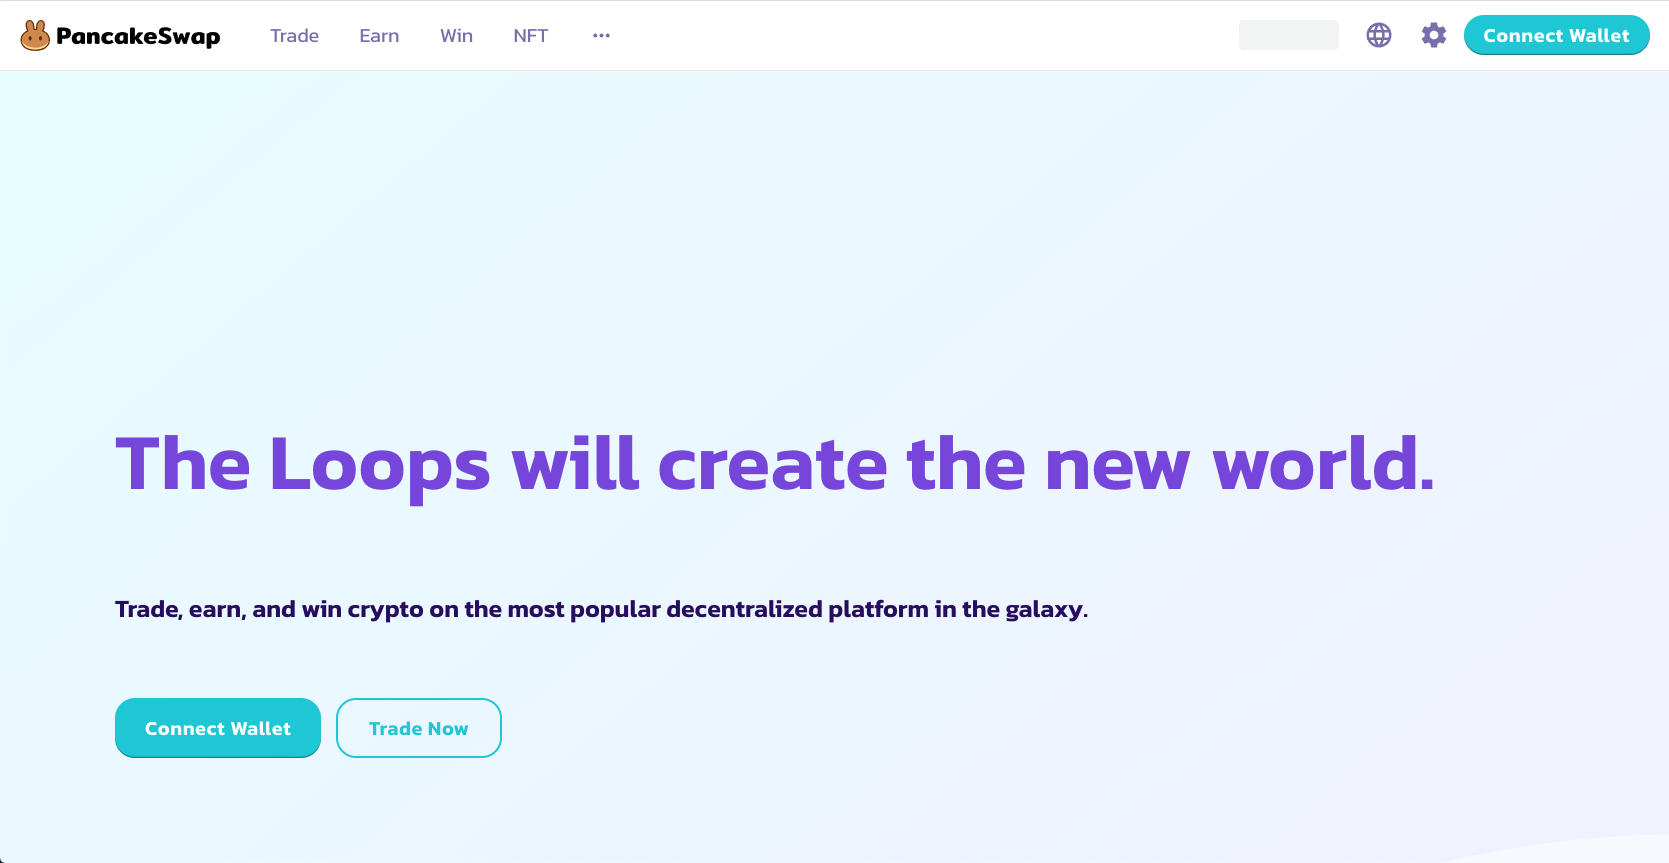
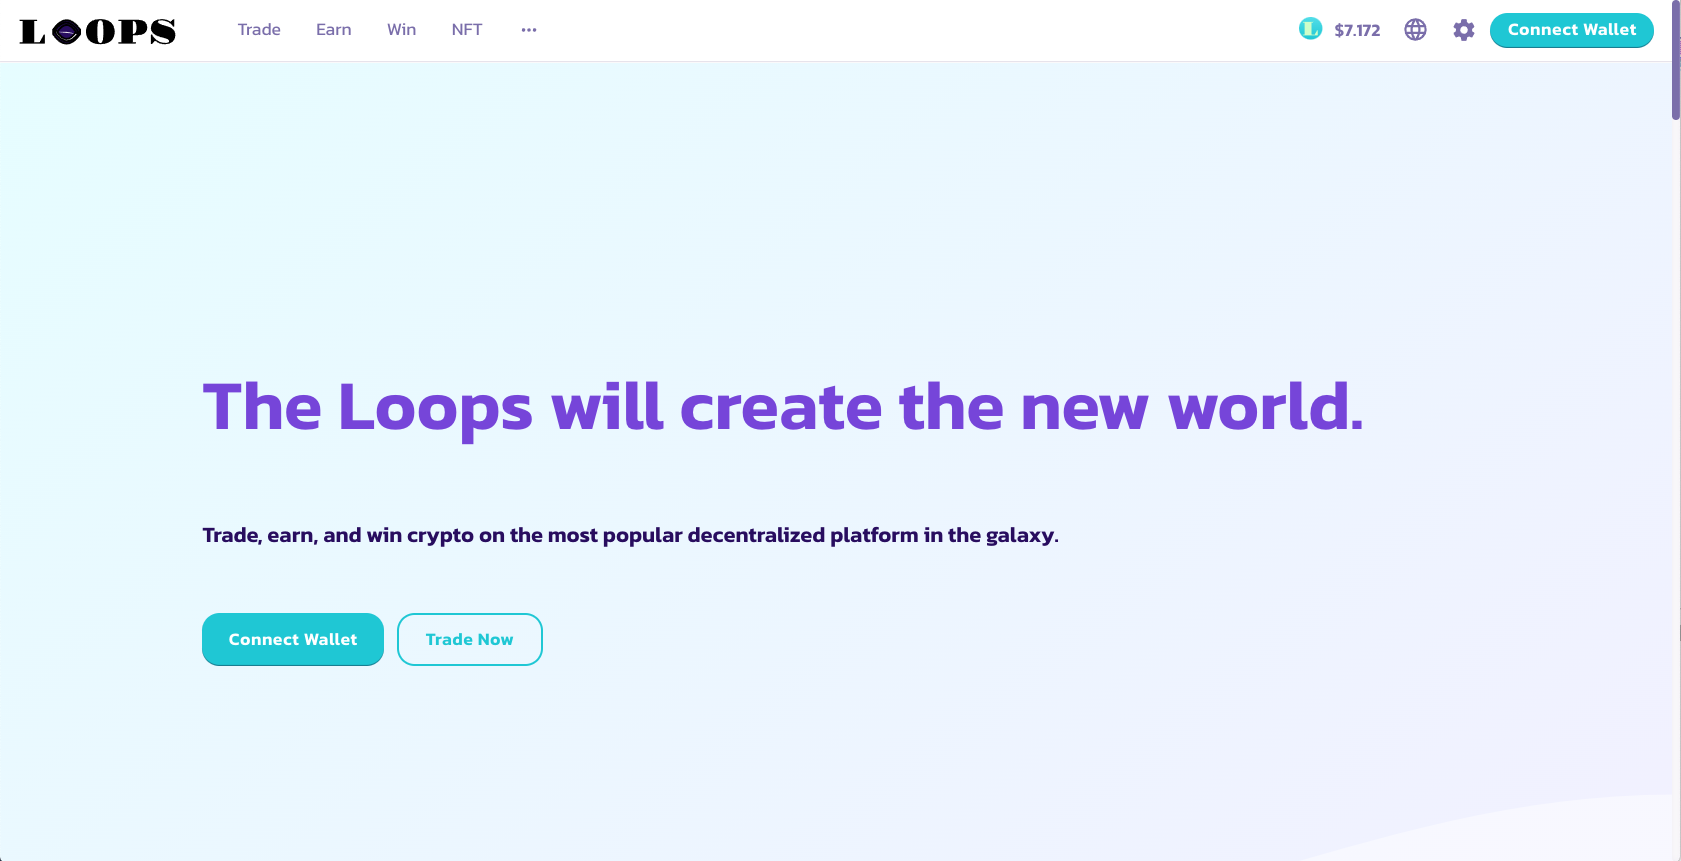
Home Work 6

diff --git a/W6/Group_coding/pancake-toolkit/packages/pancake-uikit/src/components/Svg/Icons/LogoWithText.tsx b/W6/Group_coding/pancake-toolkit/packages/pancake-uikit/src/components/Svg/Icons/LogoWithText.tsx
@@ -9,30 +9,11 @@ interface LogoProps extends SvgProps {
 const Logo: React.FC<LogoProps> = ({ isDark, ...props }) => {
   const textColor = isDark ? "#FFFFFF" : "#000000";
   return (
-    <Svg viewBox="0 0 1281 199" {...props}>
+    <Svg viewBox="0 0 460 99" {...props}>
       <path
-        d="M247.013 153.096c-2.979 0-5.085-.617-6.318-1.849-1.13-1.233-1.695-3.185-1.695-5.856v-89.22c0-2.672.616-4.624 1.849-5.856 1.233-1.336 3.287-2.004 6.164-2.004h37.753c14.382 0 24.963 3.031 31.744 9.092 6.78 6.061 10.17 15.101 10.17 27.12 0 11.917-3.39 20.906-10.17 26.967-6.678 5.959-17.259 8.938-31.744 8.938h-14.639v24.963c0 2.671-.616 4.623-1.849 5.856-1.233 1.232-3.339 1.849-6.318 1.849h-14.947zm35.288-55.012c4.212 0 7.448-1.13 9.708-3.39 2.362-2.26 3.544-5.65 3.544-10.17 0-4.623-1.182-8.065-3.544-10.325-2.26-2.26-5.496-3.39-9.708-3.39h-12.174v27.275h12.174zM363.071 155.407c-9.656 0-17.412-3.082-23.268-9.245-5.753-6.267-8.629-15.05-8.629-26.351 0-8.629 1.952-16.18 5.855-22.652 4.007-6.472 9.606-11.454 16.797-14.947 7.294-3.595 15.666-5.393 25.117-5.393 7.808 0 14.691.873 20.649 2.62 6.061 1.643 11.608 4.057 16.642 7.242v61.638c0 1.952-.359 3.236-1.079 3.852-.719.617-2.157.925-4.314.925h-15.718c-1.13 0-2.003-.154-2.619-.463-.617-.41-1.13-1.027-1.541-1.849l-2.004-4.622c-2.979 3.184-6.574 5.496-10.786 6.934-4.109 1.541-9.143 2.311-15.102 2.311zm11.558-20.957c4.006 0 7.139-.976 9.399-2.927 2.26-1.952 3.39-4.726 3.39-8.322V99.163c-1.951-.925-4.417-1.387-7.396-1.387-5.445 0-9.811 1.9-13.098 5.701-3.185 3.801-4.777 9.143-4.777 16.026 0 9.965 4.16 14.947 12.482 14.947zM437.679 153.096c-2.98 0-5.086-.617-6.318-1.849-1.233-1.233-1.849-3.185-1.849-5.856V83.907c0-1.849.308-3.082.924-3.698.719-.72 2.157-1.079 4.315-1.079h15.872c1.232 0 2.157.206 2.773.617.719.308 1.13.924 1.233 1.849l.77 4.623c2.877-2.877 6.627-5.137 11.249-6.78 4.726-1.747 9.965-2.62 15.718-2.62 8.321 0 15.05 2.363 20.186 7.088 5.137 4.623 7.705 11.506 7.705 20.649v40.835c0 2.671-.616 4.623-1.849 5.856-1.13 1.232-3.185 1.849-6.164 1.849h-14.947c-2.979 0-5.136-.617-6.472-1.849-1.233-1.233-1.849-3.185-1.849-5.856v-38.832c0-3.082-.668-5.29-2.003-6.626-1.336-1.335-3.442-2.003-6.318-2.003-3.082 0-5.548.822-7.397 2.465-1.746 1.644-2.619 3.904-2.619 6.781v38.215c0 2.671-.617 4.623-1.849 5.856-1.13 1.232-3.185 1.849-6.164 1.849h-14.947zM564.725 155.407c-14.382 0-25.477-3.339-33.285-10.016-7.807-6.677-11.711-16.385-11.711-29.124 0-7.807 1.798-14.69 5.393-20.648 3.596-5.959 8.784-10.582 15.564-13.869 6.883-3.287 14.999-4.931 24.347-4.931 7.088 0 13.047.668 17.875 2.003 4.931 1.336 9.297 3.39 13.098 6.164 1.13.72 1.695 1.644 1.695 2.774 0 .822-.411 1.9-1.233 3.236l-6.318 10.94c-.719 1.439-1.592 2.158-2.619 2.158-.617 0-1.593-.411-2.928-1.233-2.774-1.746-5.393-3.03-7.859-3.852-2.363-.822-5.342-1.233-8.937-1.233-5.137 0-9.297 1.644-12.482 4.931-3.082 3.287-4.623 7.807-4.623 13.56 0 5.856 1.592 10.376 4.777 13.56 3.185 3.082 7.551 4.623 13.098 4.623 3.287 0 6.267-.462 8.938-1.387 2.671-.924 5.393-2.208 8.167-3.852 1.438-.822 2.465-1.233 3.082-1.233.924 0 1.746.719 2.465 2.158l6.934 11.865c.514 1.027.771 1.849.771 2.465 0 .925-.617 1.798-1.849 2.62-4.315 2.774-9.041 4.828-14.177 6.164-5.034 1.438-11.095 2.157-18.183 2.157zM638.004 155.407c-9.657 0-17.413-3.082-23.268-9.245-5.753-6.267-8.63-15.05-8.63-26.351 0-8.629 1.952-16.18 5.856-22.652 4.006-6.472 9.605-11.454 16.796-14.947 7.294-3.595 15.667-5.393 25.118-5.393 7.807 0 14.69.873 20.648 2.62 6.061 1.643 11.609 4.057 16.643 7.242v61.638c0 1.952-.36 3.236-1.079 3.852-.719.617-2.157.925-4.315.925h-15.717c-1.13 0-2.004-.154-2.62-.463-.616-.41-1.13-1.027-1.541-1.849l-2.003-4.622c-2.979 3.184-6.575 5.496-10.787 6.934-4.109 1.541-9.143 2.311-15.101 2.311zm11.557-20.957c4.007 0 7.14-.976 9.4-2.927 2.26-1.952 3.39-4.726 3.39-8.322V99.163c-1.952-.925-4.417-1.387-7.397-1.387-5.444 0-9.81 1.9-13.098 5.701-3.184 3.801-4.777 9.143-4.777 16.026 0 9.965 4.161 14.947 12.482 14.947zM787.963 147.24c.719.822 1.079 1.747 1.079 2.774 0 .924-.308 1.695-.925 2.311-.616.514-1.438.771-2.465.771h-23.885c-1.438 0-2.517-.103-3.236-.308-.616-.309-1.284-.874-2.003-1.695l-20.957-28.508v22.806c0 2.671-.616 4.623-1.849 5.856-1.233 1.232-3.339 1.849-6.318 1.849h-14.947c-2.979 0-5.085-.617-6.318-1.849-1.13-1.233-1.695-3.185-1.695-5.856v-89.22c0-2.672.616-4.624 1.849-5.856 1.233-1.336 3.288-2.004 6.164-2.004h14.947c2.979 0 5.085.668 6.318 2.004 1.233 1.232 1.849 3.184 1.849 5.855v51.622l20.341-26.504c.616-.822 1.284-1.387 2.003-1.695.719-.309 1.798-.463 3.236-.463h23.885c1.027 0 1.797.309 2.311.925.616.514.925 1.233.925 2.157 0 1.028-.36 1.952-1.079 2.774l-26.35 30.203 27.12 32.051zM837.998 155.407c-8.629 0-16.334-1.438-23.114-4.314-6.677-2.877-11.968-7.192-15.872-12.944-3.903-5.753-5.855-12.79-5.855-21.111 0-13.047 3.698-23.012 11.095-29.895 7.396-6.883 18.029-10.324 31.897-10.324 13.561 0 23.834 3.39 30.819 10.17 7.089 6.678 10.633 15.975 10.633 27.891 0 5.137-2.26 7.705-6.78 7.705h-48.386c0 4.417 1.643 7.808 4.931 10.17 3.39 2.363 8.475 3.544 15.255 3.544 4.212 0 7.705-.359 10.479-1.078 2.876-.822 5.753-2.003 8.629-3.544 1.233-.514 2.055-.771 2.465-.771.925 0 1.695.617 2.312 1.849l5.239 9.862c.514 1.028.771 1.798.771 2.312 0 .924-.617 1.798-1.85 2.619-4.211 2.774-8.988 4.777-14.33 6.01-5.342 1.233-11.455 1.849-18.338 1.849zm11.866-48.077c0-3.904-1.13-6.935-3.39-9.092-2.26-2.157-5.651-3.236-10.171-3.236s-7.961 1.13-10.324 3.39c-2.363 2.158-3.544 5.137-3.544 8.938h27.429zM930.417 155.407c-8.63 0-16.797-.873-24.501-2.619-7.705-1.85-13.92-4.418-18.646-7.705-1.746-1.13-2.619-2.312-2.619-3.544 0-.822.308-1.695.924-2.62l7.551-12.019c.822-1.233 1.643-1.849 2.465-1.849.514 0 1.387.359 2.62 1.078 3.801 2.158 8.115 3.904 12.944 5.239 4.828 1.336 9.605 2.004 14.331 2.004 4.828 0 8.372-.719 10.632-2.158 2.363-1.438 3.544-3.749 3.544-6.934 0-3.082-1.284-5.496-3.852-7.242-2.466-1.747-7.14-3.955-14.023-6.626-10.375-3.904-18.491-8.27-24.347-13.099-5.753-4.93-8.629-11.608-8.629-20.032 0-10.17 3.647-17.926 10.941-23.268C907.046 48.67 916.753 46 928.876 46c8.423 0 15.615.77 21.573 2.311 6.061 1.439 11.197 3.699 15.409 6.78 1.747 1.336 2.62 2.569 2.62 3.699 0 .719-.308 1.54-.925 2.465l-7.55 12.02c-.925 1.232-1.747 1.849-2.466 1.849-.513 0-1.387-.36-2.619-1.079-5.959-3.904-13.047-5.855-21.265-5.855-4.418 0-7.808.719-10.171 2.157-2.362 1.438-3.544 3.801-3.544 7.088 0 2.26.617 4.11 1.849 5.548 1.233 1.438 2.877 2.722 4.931 3.852 2.158 1.027 5.445 2.363 9.862 4.007l2.928 1.078c7.602 2.98 13.561 5.856 17.875 8.63 4.418 2.67 7.756 6.009 10.016 10.016 2.26 3.903 3.39 8.834 3.39 14.793 0 9.143-3.441 16.437-10.324 21.881-6.78 5.445-16.796 8.167-30.048 8.167zM1003.53 153.096c-1.54 0-2.72-.257-3.544-.771-.822-.513-1.439-1.541-1.85-3.082l-19.878-66.569c-.205-.616-.308-1.078-.308-1.386 0-1.438 1.027-2.158 3.082-2.158h20.338c1.34 0 2.31.257 2.93.77.62.412 1.03 1.13 1.23 2.158l8.32 34.98 10.48-28.2c.52-1.232 1.03-2.054 1.54-2.465.62-.514 1.65-.77 3.09-.77h9.7c1.44 0 2.42.256 2.93.77.62.41 1.18 1.233 1.7 2.465l10.32 28.2 8.48-34.98c.3-1.027.71-1.746 1.23-2.157.51-.514 1.44-.77 2.77-.77h20.5c2.05 0 3.08.719 3.08 2.157 0 .308-.1.77-.31 1.386l-20.03 66.569c-.41 1.541-1.03 2.569-1.85 3.082-.72.514-1.85.771-3.39.771h-15.1c-1.44 0-2.52-.257-3.24-.771-.72-.616-1.33-1.643-1.85-3.082l-10.17-27.891-10.17 27.891c-.41 1.439-1.03 2.466-1.85 3.082-.72.514-1.79.771-3.23.771h-14.95zM1128.73 155.407c-9.66 0-17.41-3.082-23.27-9.245-5.75-6.267-8.63-15.05-8.63-26.351 0-8.629 1.95-16.18 5.86-22.652 4-6.472 9.6-11.454 16.79-14.947 7.3-3.595 15.67-5.393 25.12-5.393 7.81 0 14.69.873 20.65 2.62 6.06 1.643 11.61 4.057 16.64 7.242v61.638c0 1.952-.36 3.236-1.08 3.852-.72.617-2.15.925-4.31.925h-15.72c-1.13 0-2-.154-2.62-.463-.62-.41-1.13-1.027-1.54-1.849l-2-4.622c-2.98 3.184-6.58 5.496-10.79 6.934-4.11 1.541-9.14 2.311-15.1 2.311zm11.56-20.957c4 0 7.14-.976 9.4-2.927 2.26-1.952 3.39-4.726 3.39-8.322V99.163c-1.96-.925-4.42-1.387-7.4-1.387-5.45 0-9.81 1.9-13.1 5.701-3.18 3.801-4.78 9.143-4.78 16.026 0 9.965 4.17 14.947 12.49 14.947zM1203.18 184.223c-2.98 0-5.08-.616-6.32-1.849-1.13-1.233-1.69-3.185-1.69-5.856V88.222c4.62-3.287 10.43-6.01 17.41-8.167 6.99-2.157 14.28-3.236 21.88-3.236 31.03 0 46.54 13.15 46.54 39.448 0 11.917-3.29 21.419-9.86 28.508-6.58 7.088-15.87 10.632-27.89 10.632-3.39 0-6.68-.411-9.87-1.233-3.08-.821-5.65-1.951-7.7-3.39v25.734c0 2.671-.62 4.623-1.85 5.856-1.23 1.233-3.34 1.849-6.32 1.849h-14.33zm33.44-49.619c4.42 0 7.71-1.643 9.86-4.931 2.26-3.39 3.39-7.91 3.39-13.56 0-6.677-1.33-11.352-4-14.023-2.57-2.773-6.58-4.16-12.02-4.16-3.5 0-6.27.462-8.32 1.387v24.501c0 3.493.97 6.164 2.92 8.013 1.96 1.849 4.68 2.773 8.17 2.773z"
-        fill={textColor}
+        d="M4.35059 81.5283H12.041V26.1572H4.35059V22.7295H50.0098V26.1572H42.3633V81.5283H56.3379L67.3682 61.5332H70.3564V85H4.35059V81.5283ZM177.539 53.8428C177.539 50.9424 177.832 48.1152 178.418 45.3613C179.033 42.6074 179.971 40.0146 181.23 37.583C182.52 35.1514 184.16 32.9248 186.152 30.9033C188.145 28.8818 190.532 27.1387 193.315 25.6738C196.099 24.209 199.307 23.0811 202.939 22.29C206.572 21.4697 210.659 21.0596 215.2 21.0596C219.741 21.0596 223.828 21.4697 227.461 22.29C231.094 23.0811 234.302 24.209 237.085 25.6738C239.897 27.1387 242.3 28.8818 244.292 30.9033C246.284 32.9248 247.91 35.1514 249.17 37.583C250.43 40.0146 251.353 42.6074 251.938 45.3613C252.554 48.1152 252.861 50.9424 252.861 53.8428C252.861 56.7432 252.554 59.585 251.938 62.3682C251.353 65.1221 250.43 67.7148 249.17 70.1465C247.91 72.5781 246.284 74.8047 244.292 76.8262C242.3 78.8477 239.897 80.5908 237.085 82.0557C234.302 83.5205 231.094 84.6484 227.461 85.4395C223.828 86.2598 219.741 86.6699 215.2 86.6699C210.659 86.6699 206.572 86.2598 202.939 85.4395C199.307 84.6484 196.099 83.5205 193.315 82.0557C190.532 80.5908 188.145 78.8477 186.152 76.8262C184.16 74.8047 182.52 72.5781 181.23 70.1465C179.971 67.7148 179.033 65.1221 178.418 62.3682C177.832 59.6143 177.539 56.7725 177.539 53.8428ZM215.2 83.6377C216.724 83.6377 217.983 83.1836 218.979 82.2754C220.005 81.3672 220.825 79.7852 221.44 77.5293C222.056 75.2441 222.48 72.1973 222.715 68.3887C222.979 64.5508 223.11 59.7021 223.11 53.8428C223.11 48.0127 222.979 43.1934 222.715 39.3848C222.48 35.5469 222.056 32.5 221.44 30.2441C220.825 27.959 220.005 26.3623 218.979 25.4541C217.983 24.5459 216.724 24.0918 215.2 24.0918C213.677 24.0918 212.402 24.5459 211.377 25.4541C210.381 26.3623 209.575 27.959 208.96 30.2441C208.374 32.5 207.949 35.5469 207.686 39.3848C207.451 43.1934 207.334 48.0127 207.334 53.8428C207.334 59.7021 207.451 64.5508 207.686 68.3887C207.949 72.1973 208.374 75.2441 208.96 77.5293C209.575 79.7852 210.381 81.3672 211.377 82.2754C212.402 83.1836 213.677 83.6377 215.2 83.6377ZM262.397 81.5283H270.088V26.1572H262.397V22.7295H313.066C317.373 22.7295 321.094 23.2568 324.229 24.3115C327.363 25.3369 329.956 26.7578 332.007 28.5742C334.058 30.3906 335.566 32.5586 336.533 35.0781C337.529 37.5684 338.027 40.2783 338.027 43.208C338.027 46.167 337.456 48.877 336.313 51.3379C335.2 53.7695 333.545 55.8643 331.348 57.6221C329.18 59.3506 326.484 60.6982 323.262 61.665C320.068 62.6025 316.392 63.0713 312.231 63.0713H300.41V81.5283H308.057V85H262.397V81.5283ZM300.41 59.9072C302.109 59.9072 303.56 59.5264 304.761 58.7646C305.962 57.9736 306.929 56.875 307.661 55.4688C308.423 54.0625 308.965 52.3779 309.287 50.415C309.639 48.4521 309.814 46.2695 309.814 43.8672C309.814 40.791 309.639 38.125 309.287 35.8691C308.936 33.584 308.379 31.709 307.617 30.2441C306.885 28.7793 305.918 27.6953 304.717 26.9922C303.545 26.2598 302.109 25.8936 300.41 25.8936V59.9072ZM347.256 61.0938H350.2C350.933 62.5293 351.841 64.082 352.925 65.752C354.009 67.3926 355.283 69.0332 356.748 70.6738C358.213 72.3145 359.883 73.8965 361.758 75.4199C363.633 76.9141 365.728 78.2324 368.042 79.375C370.356 80.5176 372.905 81.4404 375.688 82.1436C378.472 82.8174 381.519 83.1543 384.829 83.1543C385.796 83.1543 386.88 83.1104 388.081 83.0225C389.282 82.9053 390.41 82.6855 391.465 82.3633C392.52 82.0117 393.398 81.5283 394.102 80.9131C394.834 80.2686 395.2 79.4189 395.2 78.3643C395.2 77.251 394.731 76.2695 393.794 75.4199C392.886 74.541 391.494 73.7061 389.619 72.915C387.744 72.0947 385.371 71.2744 382.5 70.4541C379.658 69.6338 376.304 68.7109 372.437 67.6855C363.823 65.459 357.437 62.3535 353.276 58.3691C349.146 54.3555 347.08 49.4629 347.08 43.6914C347.08 40.0879 347.812 36.8799 349.277 34.0674C350.771 31.2549 352.793 28.8965 355.342 26.9922C357.92 25.0586 360.923 23.5938 364.351 22.5977C367.808 21.5723 371.484 21.0596 375.381 21.0596C377.373 21.0596 379.453 21.2354 381.621 21.5869C383.818 21.9385 385.957 22.4219 388.037 23.0371C390.117 23.6523 392.08 24.3994 393.926 25.2783C395.771 26.1279 397.383 27.0654 398.76 28.0908L405.396 21.6748H408.428V40.791H405.659C404.37 38.4766 402.715 36.3232 400.693 34.3311C398.672 32.3389 396.357 30.6104 393.75 29.1455C391.143 27.6807 388.257 26.5234 385.093 25.6738C381.929 24.8242 378.574 24.3994 375.029 24.3994C374.355 24.3994 373.491 24.4287 372.437 24.4873C371.382 24.5166 370.342 24.6631 369.316 24.9268C368.32 25.1904 367.456 25.6152 366.724 26.2012C365.991 26.7578 365.625 27.5488 365.625 28.5742C365.625 30.2441 367.134 31.8555 370.151 33.4082C373.198 34.9316 377.725 36.4844 383.73 38.0664C386.279 38.7402 388.74 39.458 391.113 40.2197C393.486 40.9521 395.698 41.8018 397.749 42.7686C399.829 43.7061 401.704 44.79 403.374 46.0205C405.073 47.2217 406.523 48.6426 407.725 50.2832C408.926 51.9238 409.849 53.7988 410.493 55.9082C411.167 58.0176 411.504 60.4492 411.504 63.2031C411.504 66.3965 410.918 69.4141 409.746 72.2559C408.574 75.0977 406.816 77.5879 404.473 79.7266C402.158 81.8652 399.272 83.5645 395.815 84.8242C392.358 86.0547 388.359 86.6699 383.818 86.6699C381.328 86.6699 378.984 86.4795 376.787 86.0986C374.59 85.7178 372.451 85.1465 370.371 84.3848C368.32 83.623 366.284 82.6709 364.263 81.5283C362.241 80.3564 360.161 78.9941 358.022 77.4414L350.552 85.835H347.256V61.0938Z" fill="black"
       />
-      <path
-        fillRule="evenodd"
-        clipRule="evenodd"
-        d="M97.556 198.607c-29.192-.022-52.708-7.027-69.138-19.609-16.627-12.733-25.448-30.803-25.448-51.25 0-19.701 8.801-33.907 18.76-43.51 7.805-7.525 16.417-12.344 22.414-15.117-1.356-4.162-3.048-9.61-4.562-15.238-2.025-7.53-4.012-16.366-4.012-22.84 0-7.663 1.67-15.36 6.175-21.34C46.505 3.385 53.671 0 62.291 0c6.737 0 12.457 2.499 16.934 6.81 4.28 4.12 7.13 9.593 9.097 15.298 3.456 10.024 4.802 22.618 5.179 35.187h8.257c.378-12.569 1.723-25.163 5.18-35.187 1.967-5.705 4.815-11.177 9.096-15.298C120.512 2.5 126.231 0 132.968 0c8.621 0 15.786 3.385 20.546 9.703 4.505 5.98 6.176 13.677 6.176 21.34 0 6.474-1.988 15.31-4.013 22.84-1.514 5.628-3.206 11.076-4.562 15.238 5.997 2.773 14.61 7.592 22.414 15.118 9.959 9.602 18.76 23.808 18.76 43.509 0 20.447-8.82 38.517-25.448 51.25-16.43 12.582-39.946 19.587-69.138 19.609h-.147z"
-        fill="#633001"
-      />
-      <path
-        d="M62.29 7.288c-12.625 0-18.437 9.516-18.437 22.675 0 10.46 6.753 31.408 9.523 39.563.624 1.835-.356 3.844-2.142 4.555-10.119 4.031-39.981 18.789-39.981 52.588 0 35.603 30.347 62.448 86.31 62.491l.066-.001.067.001c55.962-.043 86.309-26.888 86.309-62.491 0-33.799-29.862-48.557-39.981-52.588-1.786-.71-2.765-2.72-2.142-4.555 2.771-8.154 9.524-29.103 9.524-39.563 0-13.16-5.812-22.675-18.438-22.675-18.174 0-22.705 26.007-23.028 53.92-.021 1.863-1.513 3.375-3.357 3.375H88.676c-1.845 0-3.336-1.512-3.358-3.375-.323-27.913-4.853-53.92-23.028-53.92z"
-        fill="#D1884F"
-      />
-      <path
-        d="M97.696 177.755c-41.118 0-86.372-22.235-86.443-51.018v.134c0 35.632 30.395 62.491 86.443 62.491s86.443-26.859 86.443-62.491v-.134c-.071 28.783-45.325 51.018-86.443 51.018z"
-        fill="#FEDC90"
-      />
-      <path
-        className="eye"
-        d="M74.85 117.896c0 9.718-4.546 14.779-10.154 14.779s-10.154-5.061-10.154-14.779 4.546-14.779 10.154-14.779 10.154 5.061 10.154 14.779zM140.851 117.896c0 9.718-4.546 14.779-10.154 14.779s-10.154-5.061-10.154-14.779 4.546-14.779 10.154-14.779 10.154 5.061 10.154 14.779z"
-        fill="#633001"
-      />
+      <path d="M102.769 54.5C118.923 30.1 135.077 30.1 151.231 54.5M102.769 54.5C118.923 78.9 135.077 78.9 151.231 54.5M102.769 54.5L97.3846 48.4C117.128 24 135.974 24 153.923 48.4L162 60.6M151.231 54.5L156.615 60.6C136.872 85 118.026 85 100.077 60.6L92 48.4M92 48.4V60.6C115.333 93.1333 138.667 93.1333 162 60.6M92 48.4C115.333 15.8667 138.667 15.8667 162 48.4V60.6" stroke="black" stroke-width="5" stroke-linecap="round" stroke-linejoin="round"/>
     </Svg>
   );
 };

diff --git a/W6/Group_coding/pancake-toolkit/packages/pancake-uikit/src/components/Svg/Icons/LogoRound.tsx b/W6/Group_coding/pancake-toolkit/packages/pancake-uikit/src/components/Svg/Icons/LogoRound.tsx
@@ -4,28 +4,16 @@ import { SvgProps } from "../types";
 
 const Icon: React.FC<SvgProps> = (props) => {
   return (
-    <Svg viewBox="0 0 96 96" {...props}>
-      <circle cx={48} cy={48} r={48} fill="url(#paint0_linear_10493)" />
+    <Svg viewBox="0 0 120 120" {...props}>
+      <circle cx={52} cy={52} r={52} fill="url(#paint0_linear_10493)" />     
+      <g transform="translate(13,0)">
       <path
-        fillRule="evenodd"
-        clipRule="evenodd"
-        d="M47.858 79.875c-9.342-.007-16.866-2.249-22.124-6.275-5.321-4.075-8.144-9.857-8.144-16.4 0-6.304 2.817-10.85 6.004-13.923 2.497-2.408 5.253-3.95 7.172-4.838a99.818 99.818 0 01-1.46-4.876c-.648-2.41-1.284-5.237-1.284-7.309 0-2.452.535-4.915 1.977-6.829 1.523-2.021 3.816-3.104 6.574-3.104 2.156 0 3.986.8 5.42 2.179 1.369 1.318 2.28 3.07 2.91 4.895 1.106 3.208 1.537 7.238 1.657 11.26h2.643c.12-4.022.551-8.052 1.657-11.26.63-1.825 1.541-3.577 2.91-4.895 1.434-1.38 3.264-2.18 5.42-2.18 2.758 0 5.051 1.084 6.574 3.105 1.442 1.914 1.977 4.377 1.977 6.83 0 2.071-.636 4.898-1.284 7.308a99.707 99.707 0 01-1.46 4.876c1.919.888 4.675 2.43 7.172 4.838 3.187 3.073 6.004 7.619 6.004 13.923 0 6.543-2.823 12.325-8.144 16.4-5.257 4.026-12.782 6.268-22.124 6.275h-.047z"
-        fill="#633001"
+        d="M4.35059 81.5283H12.041V26.1572H4.35059V22.7295H50.0098V26.1572H42.3633V81.5283H56.3379L67.3682 61.5332H70.3564V85H4.35059V81.5283Z"
+        fill="#cefec9"
       />
-      <path
-        d="M36.573 18.653c-4.04 0-5.9 3.045-5.9 7.256 0 3.347 2.16 10.05 3.048 12.66.199.587-.114 1.23-.686 1.458-3.238 1.29-12.794 6.012-12.794 16.828 0 11.393 9.711 19.983 27.619 19.997h.043c17.908-.014 27.619-8.604 27.619-19.997 0-10.816-9.556-15.539-12.794-16.828a1.176 1.176 0 01-.686-1.458c.887-2.61 3.048-9.313 3.048-12.66 0-4.211-1.86-7.256-5.9-7.256-5.816 0-7.266 8.322-7.37 17.254a1.084 1.084 0 01-1.074 1.08h-5.73c-.59 0-1.067-.484-1.074-1.08-.103-8.932-1.553-17.254-7.369-17.254z"
-        fill="#D1884F"
-      />
-      <path
-        d="M47.903 73.202c-13.158 0-27.64-7.115-27.662-16.326v.043c0 11.403 9.727 19.997 27.662 19.997s27.661-8.594 27.661-19.997v-.043c-.022 9.21-14.503 16.326-27.661 16.326z"
-        fill="#FEDC90"
-      />
-      <path
-        d="M40.592 54.047c0 3.11-1.455 4.73-3.25 4.73-1.794 0-3.249-1.62-3.249-4.73 0-3.11 1.455-4.73 3.25-4.73 1.794 0 3.249 1.62 3.249 4.73zM61.712 54.047c0 3.11-1.455 4.73-3.25 4.73-1.794 0-3.248-1.62-3.248-4.73 0-3.11 1.454-4.73 3.249-4.73 1.794 0 3.25 1.62 3.25 4.73z"
-        fill="#633001"
-      />
+      </g>
       <defs>
-        <linearGradient id="paint0_linear_10493" x1={48} y1={0} x2={48} y2={96} gradientUnits="userSpaceOnUse">
+        <linearGradient id="paint0_linear_10493" x1={52} y1={0} x2={52} y2={104} gradientUnits="userSpaceOnUse">
           <stop stopColor="#53DEE9" />
           <stop offset={1} stopColor="#1FC7D4" />
         </linearGradient>

diff --git a/W6/Group_coding/pancake-toolkit/packages/pancake-uikit/src/components/Svg/Icons/Logo.tsx b/W6/Group_coding/pancake-toolkit/packages/pancake-uikit/src/components/Svg/Icons/Logo.tsx
@@ -4,25 +4,10 @@ import { SvgProps } from "../types";
 
 const Icon: React.FC<SvgProps> = (props) => {
   return (
-    <Svg viewBox="0 0 198 199" {...props}>
+    <Svg viewBox="0 0 120 120" {...props}>
       <path
-        fillRule="evenodd"
-        clipRule="evenodd"
-        d="M98.552 198.607c-29.49-.022-53.246-7.027-69.844-19.609C11.91 166.265 3 148.195 3 127.748c0-19.701 8.891-33.907 18.952-43.51 7.884-7.525 16.584-12.344 22.642-15.117-1.37-4.162-3.079-9.61-4.608-15.238-2.046-7.53-4.053-16.366-4.053-22.84 0-7.663 1.687-15.36 6.238-21.34C46.98 3.385 54.218 0 62.926 0c6.806 0 12.584 2.499 17.108 6.81 4.324 4.12 7.202 9.593 9.189 15.298 3.491 10.024 4.85 22.618 5.232 35.187h8.341c.382-12.569 1.741-25.163 5.233-35.187 1.987-5.705 4.865-11.177 9.189-15.298C121.741 2.5 127.519 0 134.325 0c8.708 0 15.947 3.385 20.755 9.703 4.551 5.98 6.239 13.677 6.239 21.34 0 6.474-2.007 15.31-4.054 22.84-1.529 5.628-3.238 11.076-4.608 15.238 6.058 2.773 14.759 7.592 22.643 15.118 10.06 9.602 18.952 23.808 18.952 43.509 0 20.447-8.911 38.517-25.708 51.25-16.598 12.582-40.354 19.587-69.844 19.609h-.148z"
-        fill="#633001"
-      />
-      <path
-        d="M62.926 7.288c-12.754 0-18.626 9.516-18.626 22.675 0 10.46 6.822 31.408 9.621 39.563.63 1.835-.36 3.844-2.164 4.555-10.222 4.031-40.39 18.789-40.39 52.588 0 35.603 30.658 62.448 87.191 62.49h.135c56.534-.042 87.19-26.887 87.19-62.49 0-33.799-30.167-48.557-40.389-52.588-1.804-.71-2.794-2.72-2.164-4.555 2.799-8.154 9.621-29.103 9.621-39.563 0-13.16-5.871-22.675-18.626-22.675-18.36 0-22.936 26.007-23.263 53.92-.022 1.863-1.528 3.375-3.392 3.375H89.58c-1.863 0-3.37-1.512-3.391-3.375-.326-27.913-4.903-53.92-23.263-53.92z"
-        fill="#D1884F"
-      />
-      <path
-        d="M98.693 177.755c-41.538 0-87.253-22.235-87.325-51.018v.134c0 35.632 30.705 62.491 87.325 62.491 56.62 0 87.325-26.859 87.325-62.491v-.134c-.072 28.783-45.787 51.018-87.325 51.018z"
-        fill="#FEDC90"
-      />
-      <path
-        className="eye"
-        d="M75.614 117.896c0 9.718-4.593 14.779-10.258 14.779-5.665 0-10.258-5.061-10.258-14.779s4.593-14.779 10.258-14.779c5.665 0 10.258 5.061 10.258 14.779zM142.288 117.896c0 9.718-4.592 14.779-10.257 14.779-5.666 0-10.258-5.061-10.258-14.779s4.592-14.779 10.258-14.779c5.665 0 10.257 5.061 10.257 14.779z"
-        fill="#633001"
+        d="M4.35059 81.5283H12.041V26.1572H4.35059V22.7295H50.0098V26.1572H42.3633V81.5283H56.3379L67.3682 61.5332H70.3564V85H4.35059V81.5283Z"
+        fill="#1FC7D4"
       />
     </Svg>
   );
